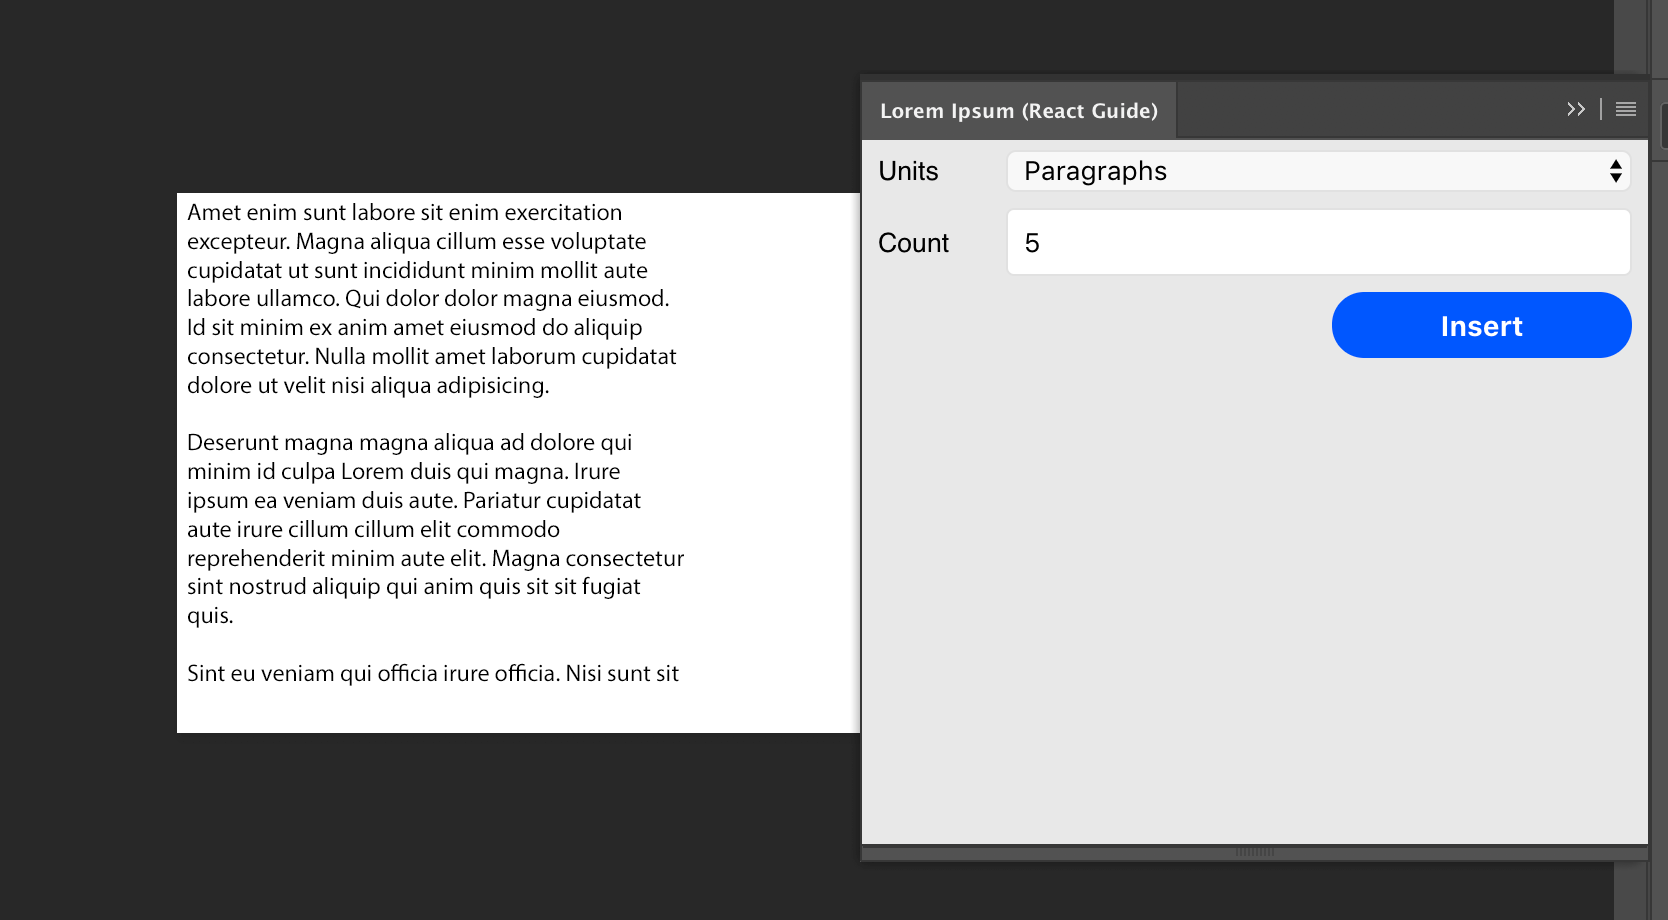
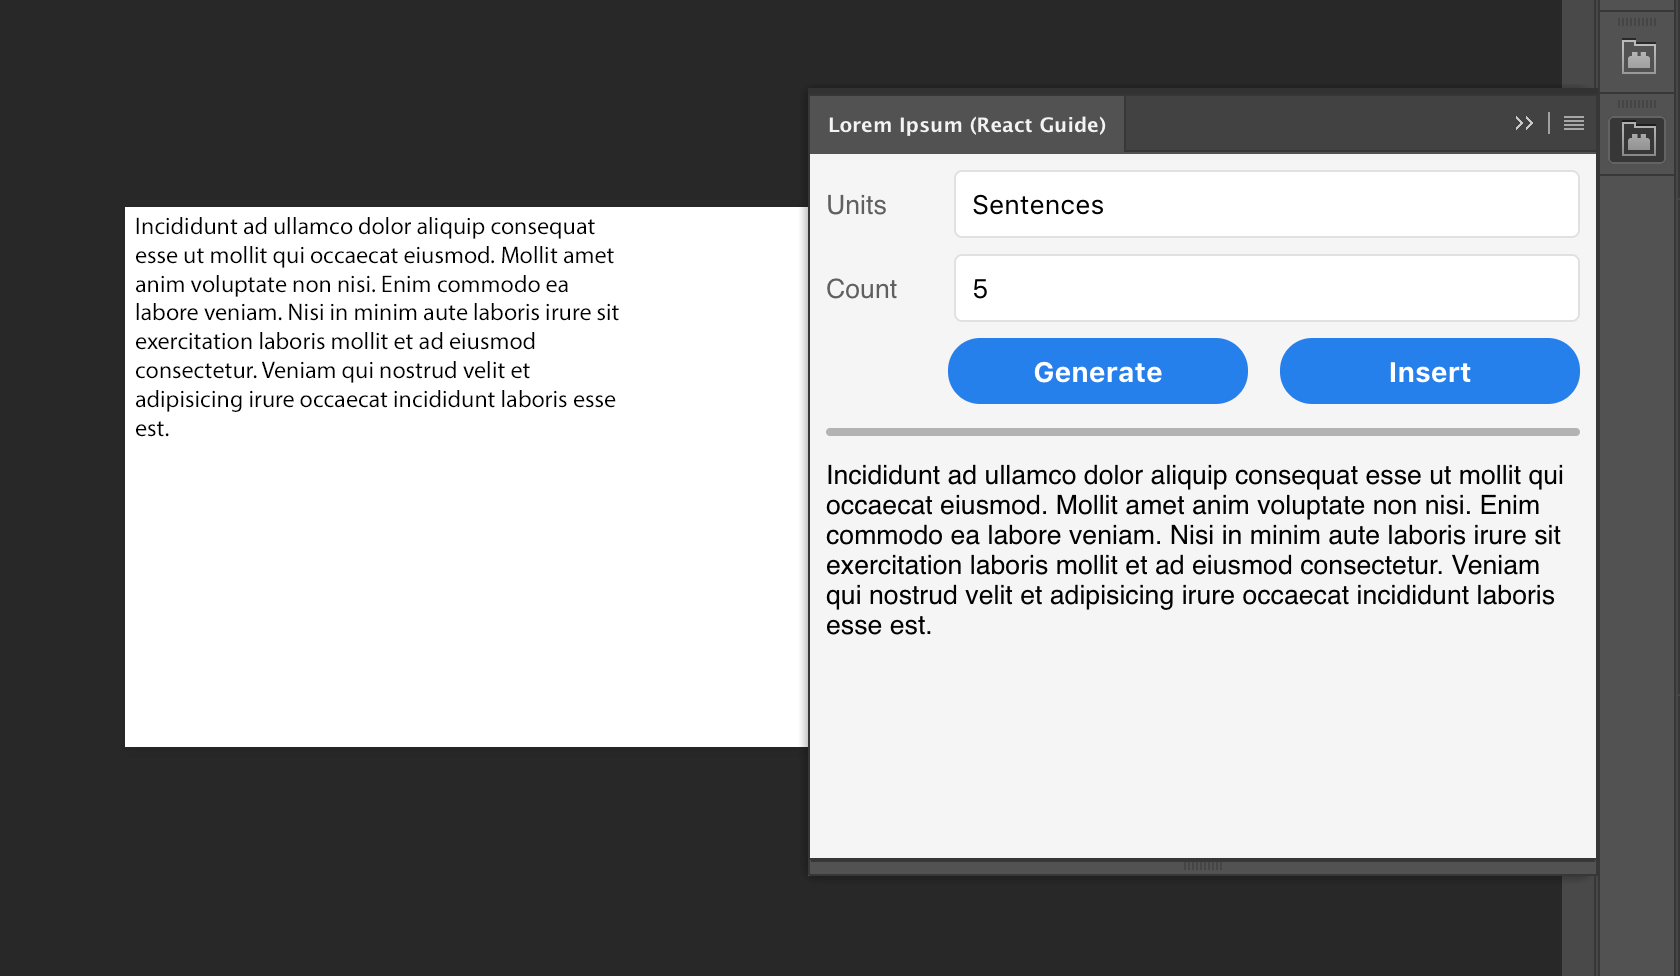
tweaks

Changed region(s): [[0.0624, 0.0, 1.0, 1.0]]

diff --git a/Building CEP Panels with React/react-panel/src/client/App.js b/Building CEP Panels with React/react-panel/src/client/App.js
@@ -1,63 +1,106 @@
 import React, { Component } from 'react';
+import Label from './components/Label';
+import Divider from './components/Divider';
 import loremIpsum from 'lorem-ipsum';
 
-import AppStyles from "./App.css";
+import styles from './App.css';
 
 class App extends Component {
-  constructor(props, context) {
-    super(props, context);
-    this.state = {
-      count: 5,
-      units: 'paragraphs',
+    constructor(props, context) {
+        super(props, context);
+        this.state = {
+            count: 5,
+            units: 'paragraphs',
+            ipsum: '',
+        };
+
+        ['insertLoremIpsum', 'handleUnitsChange', 'handleCountChange', 'generateIpsum'].forEach(
+            fn => (this[fn] = this[fn].bind(this))
+        );
     }
 
-    this.insertLoremIpsum = this.insertLoremIpsum.bind(this);
-    this.handleUnitsChange = this.handleUnitsChange.bind(this);
-    this.handleCountChange = this.handleCountChange.bind(this);
-  }
+    insertLoremIpsum() {
+        const text = this.state.ipsum.replace(/\n/g, '\\r');
+        const script = `_addTextLayer("${text}")`;
+        if (typeof window.__adobe_cep__ !== 'undefined') {
+            const csInterface = new CSInterface();
+            csInterface.evalScript(script);
+        } else {
+            // we're not in a CEP environment!
+            alert(`
+Not in a CEP environment. We would have executed:
 
-  insertLoremIpsum() {
-    const text = loremIpsum(this.state).replace(/\n/g, '\\r');
-    const csInterface = new CSInterface();
-    const script = `_addTextLayer("${text}")`;
-    csInterface.evalScript(script);
-  }
+${script}
+`);
+        }
+    }
 
-  handleUnitsChange(evt) {
-    const units = evt.target.value;
-    this.setState(state => ({
-        count: state.count,
-        units
-    }));
-  }
+    handleUnitsChange(evt) {
+        const units = evt.target.value;
+        this.setState(
+            state => ({
+                units,
+                ipsum: ''
+            })
+        );
+    }
 
-  handleCountChange(evt) {
-    const count = evt.target.value;
-    this.setState(state => ({
-      count,
-      units: state.units
-    }));
-  }
+    handleCountChange(evt) {
+        const count = evt.target.value;
+        this.setState(
+            state => ({
+                count,
+                ipsum: ''
+            })
+        );
+    }
 
-  render() {
-    return (
-      <div className={AppStyles.wrapper}>
-        <label className={AppStyles.field}><span className={AppStyles.label}>Units</span>
-          <select className={AppStyles.input} onChange={this.handleUnitsChange} value={this.state.units}>
-            <option value="paragraphs">Paragraphs</option>
-            <option value="sentences">Sentences</option>
-            <option value="words">Words</option>
-          </select>
-        </label>
-        <label className={AppStyles.field}><span className={AppStyles.label}>Count</span>
-          <input className={AppStyles.input} onChange={this.handleCountChange} type="number" min={0} max={99} value={this.state.count}/>
-        </label>
-        <div className={AppStyles.buttons}>
-          <button className={AppStyles.button} onClick={this.insertLoremIpsum}>Insert</button>
-        </div>
-      </div>
-    );
-  }
+    generateIpsum() {
+        this.setState(state => ({
+            ipsum: loremIpsum({
+                count: state.count,
+                units: state.units,
+            }),
+        }));
+    }
+
+    render() {
+        return (
+            <div className={styles.wrapper}>
+                <Label label="Units">
+                    <select
+                        className={styles.input}
+                        onChange={this.handleUnitsChange}
+                        value={this.state.units}>
+                        <option value="paragraphs">Paragraphs</option>
+                        <option value="sentences">Sentences</option>
+                        <option value="words">Words</option>
+                    </select>
+                </Label>
+                <Label label="Count">
+                    <input
+                        className={styles.input}
+                        onChange={this.handleCountChange}
+                        type="number"
+                        min={0}
+                        max={99}
+                        value={this.state.count}
+                    />
+                </Label>
+                <div className={styles.buttons}>
+                    <button className={styles.button} onClick={this.generateIpsum}>Generate</button>
+                    <button
+                        disabled={this.state.ipsum === ''}
+                        className={styles.button}
+                        onClick={this.insertLoremIpsum}>
+                        Insert
+                    </button>
+                </div>
+                <Divider />
+                <div className={styles.preview}>{this.state.ipsum || "Click Generate to create some text."}</div>
+            </div>
+        );
+    }
 }
 
 export default App;

diff --git a/Building CEP Panels with React/react-panel/src/client/App.css b/Building CEP Panels with React/react-panel/src/client/App.css
@@ -1,46 +1,68 @@
 :local(.wrapper) {
-  display: flex;
-  flex-direction: column;
-  justify-content: flex-end;
+    display: flex;
+    flex-direction: column;
+    justify-content: flex-end;
+    position: absolute;
+    top: 0;
+    left: 0;
+    right: 0;
+    bottom: 0;
+    padding-top: 4px;
+    padding-bottom: 8px;
 }
-:local(.field) {
-  display: flex;
-  flex: 1 1 auto;
-  align-items: baseline;
-}
-:local(.label) {
-  width: 48px;
-  margin: 8px 8px 4px;
-  font-size: 10pt;
-}
+
 :local(.input) {
-  flex: 1 1 auto;
-  margin: 4px 8px;
-  padding: 8px;
-  border: 1px solid #E1E1E1;
-  border-radius: 4px;
-  font-size: 10pt;
+    flex: 1 1 auto;
+    margin: 4px 8px;
+    padding: 8px;
+    border: 1px solid #E1E1E1;
+    border-radius: 4px;
+    font-size: 10pt;
+    appearance: none;
+    background-color: white;
 }
+
 :local(.input):focus {
-  outline: none;
-  border-color: #215AF6;
+    outline: none;
+    border-color: #215AF6;
 }
+
 :local(.button) {
-  font-size: 12pt;
-  font-weight: bold;
-  border: none;
-  border-radius: 24px;
-  font-size: 14px;
-  margin: 4px 8px 8px;
-  padding: 8px;
-  color: white;
-  max-width: 150px;
-  background-color: #215AF6;
-  flex: 1 1 auto;
+    font-size: 12pt;
+    font-weight: bold;
+    border: none;
+    border-radius: 24px;
+    font-size: 14px;
+    margin: 4px 8px 8px;
+    padding: 8px;
+    color: white;
+    max-width: 150px;
+    background-color: #4180E4;
+    flex: 1 1 auto;
+    outline: none;
 }
+
+:local(.button):hover {
+    background-color: #215AF6;
+}
+
+:local(.button)[disabled] {
+    background-color: #E3E3E3;
+    color: #B3B3B3;
+}
+
 :local(.buttons) {
-  display: flex;
-  flex-direction: row;
-  flex: 1 1 auto;
-  justify-content: flex-end;
+    display: flex;
+    flex-direction: row;
+    justify-content: flex-end;
+    flex: 0 0 auto;
+}
+
+:local(.preview) {
+    flex: 1 1 auto;
+    padding: 8px;
+    overflow-y: scroll;
+    white-space: pre-wrap;
+    font-size: 10pt;
+    min-height: 100px;
 }

diff --git a/Building CEP Panels with React/react-panel/src/host/index.jsx b/Building CEP Panels with React/react-panel/src/host/index.jsx
@@ -1,13 +1,13 @@
 function addTextLayer(text) {
-  const layers = app.activeDocument.artLayers;
-  const layer = layers.add();
-  layer.kind = LayerKind.TEXT;
+    const layers = app.activeDocument.artLayers;
+    const layer = layers.add();
+    layer.kind = LayerKind.TEXT;
 
-  const textItem = layer.textItem;
-  textItem.kind = TextType.PARAGRAPHTEXT;
-  textItem.size = 24;
-  textItem.position = [10, 10];
-  textItem.contents = text;
-  textItem.width = new UnitValue("500 pixels");
-  textItem.height = new UnitValue("500 pixels");
+    const textItem = layer.textItem;
+    textItem.kind = TextType.PARAGRAPHTEXT;
+    textItem.size = 24;
+    textItem.position = [10, 10];
+    textItem.contents = text;
+    textItem.width = new UnitValue('500 pixels');
+    textItem.height = new UnitValue('500 pixels');
 }

diff --git a/Building CEP Panels with React/react-panel/src/client/index.js b/Building CEP Panels with React/react-panel/src/client/index.js
@@ -6,8 +6,8 @@ import App from './App';
 
 let root = document.getElementById('root');
 if (!root) {
-    root = document.createElement("div");
-    root.setAttribute("id", "root");
+    root = document.createElement('div');
+    root.setAttribute('id', 'root');
     document.body.appendChild(root);
 }
 ReactDOM.render(<App />, root);

diff --git a/Building CEP Panels with React/react-panel/src/client/components/Label.js b/Building CEP Panels with React/react-panel/src/client/components/Label.js
@@ -1,0 +1,9 @@
+import React from 'react';
+import styles from './Label.css';
+
+export default ({ label, children, ...rest } = {}) => (
+    <label className={styles.field} {...rest}>
+        <span className={styles.label}>{label}</span>
+        {children}
+    </label>
+);

diff --git a/Building CEP Panels with React/react-panel/src/client/components/Label.css b/Building CEP Panels with React/react-panel/src/client/components/Label.css
@@ -1,0 +1,12 @@
+:local(.field) {
+    display: flex;
+    align-items: baseline;
+    flex: 0 0 auto;
+}
+
+:local(.label) {
+    width: 48px;
+    margin: 8px 8px 4px;
+    font-size: 10pt;
+    color: #606060;
+}

diff --git a/Building CEP Panels with React/react-panel/src/client/index.css b/Building CEP Panels with React/react-panel/src/client/index.css
@@ -1,6 +1,6 @@
 body {
-  margin: 0;
-  padding: 0;
-  font-family: sans-serif;
-  background-color: #E8E8E8;
+    margin: 0;
+    padding: 0;
+    font-family: sans-serif;
+    background-color: #F5F5F5;
 }

diff --git a/Building CEP Panels with React/react-panel/src/client/components/Divider.css b/Building CEP Panels with React/react-panel/src/client/components/Divider.css
@@ -1,0 +1,8 @@
+:local(.divider) {
+    background-color: #B3B3B3;
+    border-radius: 4px;
+    height: 4px;
+    display: block;
+    margin: 4px 8px;
+    flex: 0 0 auto;
+}

diff --git a/Building CEP Panels with React/react-panel/src/client/components/Divider.js b/Building CEP Panels with React/react-panel/src/client/components/Divider.js
@@ -1,0 +1,4 @@
+import React from 'react';
+import styles from './Divider.css';
+
+export default () => <div className={styles.divider} />;
